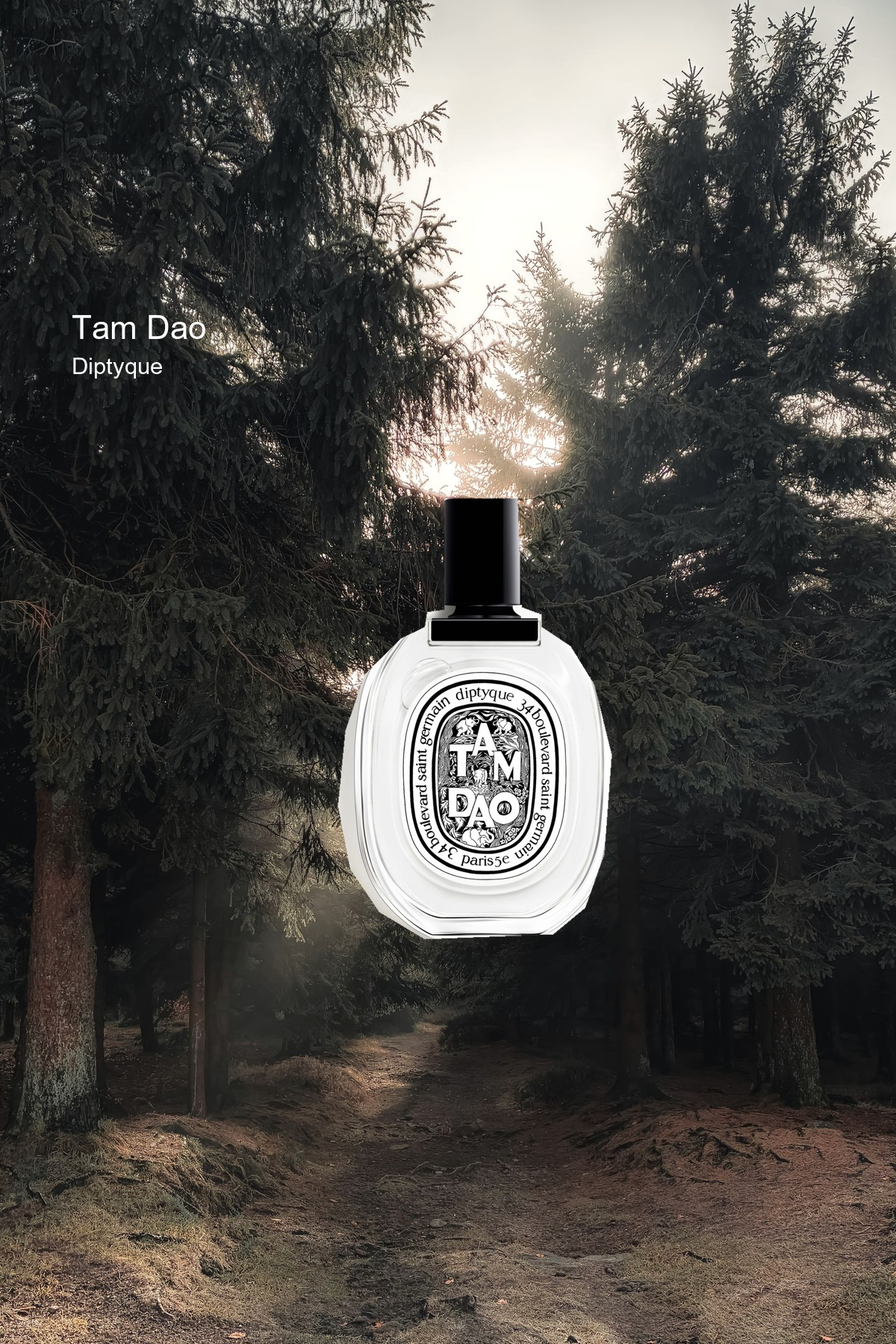
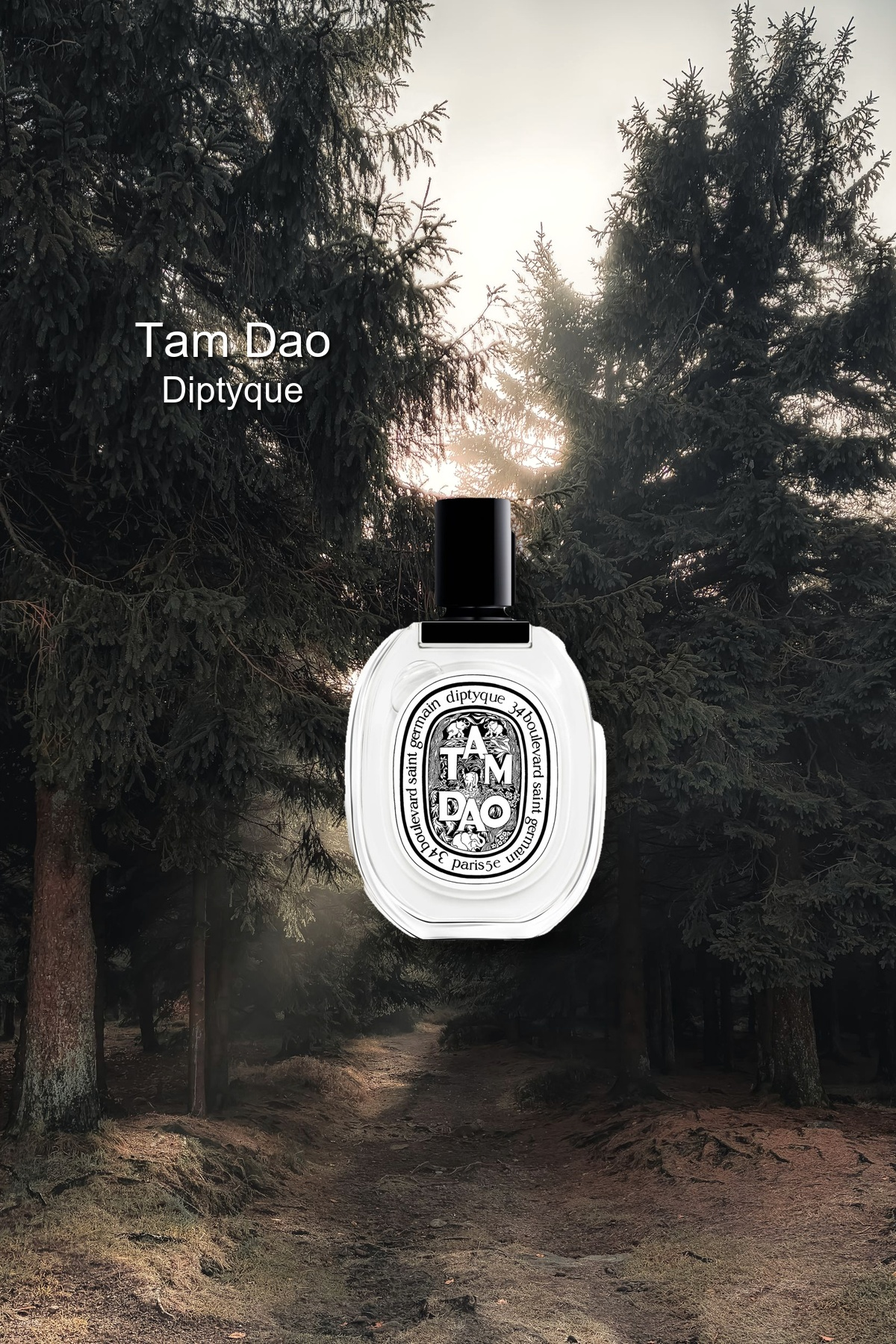
Refine fragrance cutouts typography and drop shadows

Changed region(s): [[0.37, 0.3733, 0.7092, 0.7156], [0.0925, 0.2178, 0.37, 0.3111]]

diff --git a/collection.html b/collection.html
@@ -12,7 +12,7 @@
     <link rel="stylesheet" href="css/footer.css">
     <link rel="stylesheet" href="css/collection.css">
     <title>collection</title>
-  <link rel="stylesheet" href="css/new-perfumes.css?v=20261103-composite">
+  <link rel="stylesheet" href="css/new-perfumes.css?v=20261103-refined">
 </head>
 <body>
     <header>
@@ -74,7 +74,7 @@
                         </a>
                     </div>
                 </div>
-            <div><div class="all new-product"><a href="sp_pear.html"><img src="img/sp_pear.jpg?v=20261103-composite" alt="Jo Malone London English Pear &amp; Freesia" loading="lazy"></a></div><div><a href="sp_pear.html"><h3>English Pear &amp; Freesia</h3><h5>Jo Malone London</h5></a></div></div><div><div class="all new-product"><a href="sp_doson.html"><img src="img/sp_doson.jpg?v=20261103-composite" alt="Diptyque Do Son" loading="lazy"></a></div><div><a href="sp_doson.html"><h3>Do Son</h3><h5>Diptyque</h5></a></div></div></div>   
+            <div><div class="all new-product"><a href="sp_pear.html"><img src="img/sp_pear.jpg?v=20261103-refined" alt="Jo Malone London English Pear &amp; Freesia" loading="lazy"></a></div><div><a href="sp_pear.html"><h3>English Pear &amp; Freesia</h3><h5>Jo Malone London</h5></a></div></div><div><div class="all new-product"><a href="sp_doson.html"><img src="img/sp_doson.jpg?v=20261103-refined" alt="Diptyque Do Son" loading="lazy"></a></div><div><a href="sp_doson.html"><h3>Do Son</h3><h5>Diptyque</h5></a></div></div></div>   
         <h2 class="english right"><a href="summer.html">SUMMER</a></h2>
         <div class="season">
                 <div>
@@ -121,7 +121,7 @@
                         </a>
                     </div>
                 </div>
-            <div><div class="all new-product"><a href="mm_nil.html"><img src="img/mm_nil.jpg?v=20261103-composite" alt="Hermès Un Jardin sur le Nil" loading="lazy"></a></div><div><a href="mm_nil.html"><h3>Un Jardin sur le Nil</h3><h5>Hermès</h5></a></div></div><div><div class="all new-product"><a href="mm_sport.html"><img src="img/mm_sport.jpg?v=20261103-composite" alt="Chanel Allure Homme Sport" loading="lazy"></a></div><div><a href="mm_sport.html"><h3>Allure Homme Sport</h3><h5>Chanel</h5></a></div></div></div>   
+            <div><div class="all new-product"><a href="mm_nil.html"><img src="img/mm_nil.jpg?v=20261103-refined" alt="Hermès Un Jardin sur le Nil" loading="lazy"></a></div><div><a href="mm_nil.html"><h3>Un Jardin sur le Nil</h3><h5>Hermès</h5></a></div></div><div><div class="all new-product"><a href="mm_sport.html"><img src="img/mm_sport.jpg?v=20261103-refined" alt="Chanel Allure Homme Sport" loading="lazy"></a></div><div><a href="mm_sport.html"><h3>Allure Homme Sport</h3><h5>Chanel</h5></a></div></div></div>   
         <h2 class="english"><a href="autumn.html">AUTUMN</a></h2>
             <div class="season">
                 <div>
@@ -168,7 +168,7 @@
                         </a>
                     </div>
                 </div>
-            <div><div class="all new-product"><a href="au_tamdao.html"><img src="img/au_tamdao.jpg?v=20261103-composite" alt="Diptyque Tam Dao" loading="lazy"></a></div><div><a href="au_tamdao.html"><h3>Tam Dao</h3><h5>Diptyque</h5></a></div></div><div><div class="all new-product"><a href="au_santal.html"><img src="img/au_santal.jpg?v=20261103-composite" alt="Le Labo Santal 33" loading="lazy"></a></div><div><a href="au_santal.html"><h3>Santal 33</h3><h5>Le Labo</h5></a></div></div></div>   
+            <div><div class="all new-product"><a href="au_tamdao.html"><img src="img/au_tamdao.jpg?v=20261103-refined" alt="Diptyque Tam Dao" loading="lazy"></a></div><div><a href="au_tamdao.html"><h3>Tam Dao</h3><h5>Diptyque</h5></a></div></div><div><div class="all new-product"><a href="au_santal.html"><img src="img/au_santal.jpg?v=20261103-refined" alt="Le Labo Santal 33" loading="lazy"></a></div><div><a href="au_santal.html"><h3>Santal 33</h3><h5>Le Labo</h5></a></div></div></div>   
         <h2 class="english right"><a href="winter.html">WINTER</a></h2>
             <div class="season">
                 <div>
@@ -215,7 +215,7 @@
                         </a>
                     </div>
                 </div>
-            <div><div class="all new-product"><a href="wi_angels.html"><img src="img/wi_angels.jpg?v=20261103-composite" alt="Kilian Paris Angels’ Share" loading="lazy"></a></div><div><a href="wi_angels.html"><h3>Angels’ Share</h3><h5>Kilian Paris</h5></a></div></div><div><div class="all new-product"><a href="wi_tobacco.html"><img src="img/wi_tobacco.jpg?v=20261103-composite" alt="Tom Ford Tobacco Vanille" loading="lazy"></a></div><div><a href="wi_tobacco.html"><h3>Tobacco Vanille</h3><h5>Tom Ford</h5></a></div></div><div><div class="all new-product"><a href="wi_grandsoir.html"><img src="img/wi_grandsoir.jpg?v=20261103-composite" alt="Maison Francis Kurkdjian Grand Soir" loading="lazy"></a></div><div><a href="wi_grandsoir.html"><h3>Grand Soir</h3><h5>Maison Francis Kurkdjian</h5></a></div></div></div>
+            <div><div class="all new-product"><a href="wi_angels.html"><img src="img/wi_angels.jpg?v=20261103-refined" alt="Kilian Paris Angels’ Share" loading="lazy"></a></div><div><a href="wi_angels.html"><h3>Angels’ Share</h3><h5>Kilian Paris</h5></a></div></div><div><div class="all new-product"><a href="wi_tobacco.html"><img src="img/wi_tobacco.jpg?v=20261103-refined" alt="Tom Ford Tobacco Vanille" loading="lazy"></a></div><div><a href="wi_tobacco.html"><h3>Tobacco Vanille</h3><h5>Tom Ford</h5></a></div></div><div><div class="all new-product"><a href="wi_grandsoir.html"><img src="img/wi_grandsoir.jpg?v=20261103-refined" alt="Maison Francis Kurkdjian Grand Soir" loading="lazy"></a></div><div><a href="wi_grandsoir.html"><h3>Grand Soir</h3><h5>Maison Francis Kurkdjian</h5></a></div></div></div>
     </div>    
     <footer>
     <div id="foot">

diff --git a/wi_grandsoir.html b/wi_grandsoir.html
@@ -32,8 +32,8 @@
       </nav>
     </header>
     <main class="perfume-layout new-perfume">
- <aside class="related-scents" aria-labelledby="related-title"><p class="related-eyebrow english">EXPLORE MORE</p><h2 id="related-title" class="kor">같은 계절의 향도 만나보세요</h2><div class="related-list"><a class="related-perfume" href="wi_angels.html"><img src="img/wi_angels.jpg?v=20261103-composite" alt="Angels’ Share" loading="lazy"><span class="related-brand english">Kilian Paris</span><span class="related-name english">Angels’ Share</span></a><a class="related-perfume" href="wi_tobacco.html"><img src="img/wi_tobacco.jpg?v=20261103-composite" alt="Tobacco Vanille" loading="lazy"><span class="related-brand english">Tom Ford</span><span class="related-name english">Tobacco Vanille</span></a></div><a class="related-back kor" href="winter.html">겨울 컬렉션으로 돌아가기 ↗</a></aside>
- <div id="all"><div class="set"><div id="pic"><img src="img/wi_grandsoir.jpg?v=20261103-composite" alt="Maison Francis Kurkdjian Grand Soir 향수"></div><div id="text"><h3 class="english">Grand Soir — Maison Francis Kurkdjian</h3><p class="kor">스페니시 라브다넘과 오렌지의 깊고 부드러운 향으로 시작해 라벤더와 시암 벤조인이 어우러지며 따뜻한 분위기를 만들어냅니다. 시간이 지나면서 앰버와 바닐라, 통카빈의 풍성한 단맛에 머스크와 시더가 더해져 차분하고 부드러운 잔향으로 이어집니다.<br><br>앰버의 깊은 온기와 바닐라의 부드러운 달콤함이 중심을 이루는 향수입니다. 밝고 가벼운 느낌보다는 따뜻하고 풍성한 여운을 남기는 것이 특징으로, 차가운 겨울 공기와 대비되는 아늑하고 차분한 저녁의 분위기와 잘 어울립니다.</p>
+ <aside class="related-scents" aria-labelledby="related-title"><p class="related-eyebrow english">EXPLORE MORE</p><h2 id="related-title" class="kor">같은 계절의 향도 만나보세요</h2><div class="related-list"><a class="related-perfume" href="wi_angels.html"><img src="img/wi_angels.jpg?v=20261103-refined" alt="Angels’ Share" loading="lazy"><span class="related-brand english">Kilian Paris</span><span class="related-name english">Angels’ Share</span></a><a class="related-perfume" href="wi_tobacco.html"><img src="img/wi_tobacco.jpg?v=20261103-refined" alt="Tobacco Vanille" loading="lazy"><span class="related-brand english">Tom Ford</span><span class="related-name english">Tobacco Vanille</span></a></div><a class="related-back kor" href="winter.html">겨울 컬렉션으로 돌아가기 ↗</a></aside>
+ <div id="all"><div class="set"><div id="pic"><img src="img/wi_grandsoir.jpg?v=20261103-refined" alt="Maison Francis Kurkdjian Grand Soir 향수"></div><div id="text"><h3 class="english">Grand Soir — Maison Francis Kurkdjian</h3><p class="kor">스페니시 라브다넘과 오렌지의 깊고 부드러운 향으로 시작해 라벤더와 시암 벤조인이 어우러지며 따뜻한 분위기를 만들어냅니다. 시간이 지나면서 앰버와 바닐라, 통카빈의 풍성한 단맛에 머스크와 시더가 더해져 차분하고 부드러운 잔향으로 이어집니다.<br><br>앰버의 깊은 온기와 바닐라의 부드러운 달콤함이 중심을 이루는 향수입니다. 밝고 가벼운 느낌보다는 따뜻하고 풍성한 여운을 남기는 것이 특징으로, 차가운 겨울 공기와 대비되는 아늑하고 차분한 저녁의 분위기와 잘 어울립니다.</p>
  <div class="lion"><div class="dear"><p class="hand kor">출시년도</p><p class="foot english">2016</p></div><div class="dear"><p class="hand kor">농도</p><p class="foot english">Eau de Parfum</p></div><div class="dear"><p class="hand kor">지속시간</p><p class="foot kor">약 8~10시간</p></div></div>
  <div class="bignote"><h3 class="english">SCENT NOTES</h3><div class="note-columns"><details class="note-group"><summary class="tag english">TOP</summary><div class="note-panel"><p class="eng english">Spanish Labdanum</p><p class="ko kor">스페니시 라브다넘</p><p class="eng english">Orange</p><p class="ko kor">오렌지</p></div></details><details class="note-group"><summary class="tag english">HEART</summary><div class="note-panel"><p class="eng english">Lavender</p><p class="ko kor">라벤더</p><p class="eng english">Siam Benzoin</p><p class="ko kor">시암 벤조인</p></div></details><details class="note-group"><summary class="tag english">BASE</summary><div class="note-panel"><p class="eng english">Amber</p><p class="ko kor">앰버</p><p class="eng english">Vanilla</p><p class="ko kor">바닐라</p><p class="eng english">Tonka Bean</p><p class="ko kor">통카빈</p><p class="eng english">Musk</p><p class="ko kor">머스크</p><p class="eng english">Cedar</p><p class="ko kor">시더</p></div></details></div></div>
  </div></div></div></main>    <footer>

diff --git a/wi_angels.html b/wi_angels.html
@@ -32,8 +32,8 @@
       </nav>
     </header>
     <main class="perfume-layout new-perfume">
- <aside class="related-scents" aria-labelledby="related-title"><p class="related-eyebrow english">EXPLORE MORE</p><h2 id="related-title" class="kor">같은 계절의 향도 만나보세요</h2><div class="related-list"><a class="related-perfume" href="wi_tobacco.html"><img src="img/wi_tobacco.jpg?v=20261103-composite" alt="Tobacco Vanille" loading="lazy"><span class="related-brand english">Tom Ford</span><span class="related-name english">Tobacco Vanille</span></a><a class="related-perfume" href="wi_grandsoir.html"><img src="img/wi_grandsoir.jpg?v=20261103-composite" alt="Grand Soir" loading="lazy"><span class="related-brand english">Maison Francis Kurkdjian</span><span class="related-name english">Grand Soir</span></a></div><a class="related-back kor" href="winter.html">겨울 컬렉션으로 돌아가기 ↗</a></aside>
- <div id="all"><div class="set"><div id="pic"><img src="img/wi_angels.jpg?v=20261103-composite" alt="Kilian Paris Angels’ Share 향수"></div><div id="text"><h3 class="english">Angels’ Share — Kilian Paris</h3><p class="kor">코냑의 깊고 따뜻한 향으로 시작해 시나몬과 통카빈, 오크가 어우러지며 달콤하고 스파이시한 분위기를 만들어냅니다. 헤디온의 부드러운 꽃 향이 더해지고, 시간이 지나면서 바닐라와 프랄린, 샌달우드와 캔디드 아몬드가 포근하고 달콤한 잔향으로 이어집니다.<br><br>술과 향신료의 깊은 느낌에 디저트를 떠올리는 부드러운 단맛이 겹쳐지는 것이 특징인 향수입니다. 차가운 공기 속에서 따뜻한 실내로 들어온 듯 풍성하고 포근한 분위기를 전하며, 겨울 저녁의 깊고 아늑한 분위기와 잘 어울립니다.</p>
+ <aside class="related-scents" aria-labelledby="related-title"><p class="related-eyebrow english">EXPLORE MORE</p><h2 id="related-title" class="kor">같은 계절의 향도 만나보세요</h2><div class="related-list"><a class="related-perfume" href="wi_tobacco.html"><img src="img/wi_tobacco.jpg?v=20261103-refined" alt="Tobacco Vanille" loading="lazy"><span class="related-brand english">Tom Ford</span><span class="related-name english">Tobacco Vanille</span></a><a class="related-perfume" href="wi_grandsoir.html"><img src="img/wi_grandsoir.jpg?v=20261103-refined" alt="Grand Soir" loading="lazy"><span class="related-brand english">Maison Francis Kurkdjian</span><span class="related-name english">Grand Soir</span></a></div><a class="related-back kor" href="winter.html">겨울 컬렉션으로 돌아가기 ↗</a></aside>
+ <div id="all"><div class="set"><div id="pic"><img src="img/wi_angels.jpg?v=20261103-refined" alt="Kilian Paris Angels’ Share 향수"></div><div id="text"><h3 class="english">Angels’ Share — Kilian Paris</h3><p class="kor">코냑의 깊고 따뜻한 향으로 시작해 시나몬과 통카빈, 오크가 어우러지며 달콤하고 스파이시한 분위기를 만들어냅니다. 헤디온의 부드러운 꽃 향이 더해지고, 시간이 지나면서 바닐라와 프랄린, 샌달우드와 캔디드 아몬드가 포근하고 달콤한 잔향으로 이어집니다.<br><br>술과 향신료의 깊은 느낌에 디저트를 떠올리는 부드러운 단맛이 겹쳐지는 것이 특징인 향수입니다. 차가운 공기 속에서 따뜻한 실내로 들어온 듯 풍성하고 포근한 분위기를 전하며, 겨울 저녁의 깊고 아늑한 분위기와 잘 어울립니다.</p>
  <div class="lion"><div class="dear"><p class="hand kor">출시년도</p><p class="foot english">2020</p></div><div class="dear"><p class="hand kor">농도</p><p class="foot english">Eau de Parfum</p></div><div class="dear"><p class="hand kor">지속시간</p><p class="foot kor">약 8~10시간</p></div></div>
  <div class="bignote"><h3 class="english">SCENT NOTES</h3><div class="note-columns"><details class="note-group"><summary class="tag english">TOP</summary><div class="note-panel"><p class="eng english">Cognac</p><p class="ko kor">코냑</p></div></details><details class="note-group"><summary class="tag english">HEART</summary><div class="note-panel"><p class="eng english">Cinnamon</p><p class="ko kor">시나몬</p><p class="eng english">Tonka Bean</p><p class="ko kor">통카빈</p><p class="eng english">Oak</p><p class="ko kor">오크</p><p class="eng english">Hedione</p><p class="ko kor">헤디온</p></div></details><details class="note-group"><summary class="tag english">BASE</summary><div class="note-panel"><p class="eng english">Vanilla</p><p class="ko kor">바닐라</p><p class="eng english">Praline</p><p class="ko kor">프랄린</p><p class="eng english">Sandalwood</p><p class="ko kor">샌달우드</p><p class="eng english">Candied Almond</p><p class="ko kor">캔디드 아몬드</p></div></details></div></div>
  </div></div></div></main>    <footer>

diff --git a/wi_tobacco.html b/wi_tobacco.html
@@ -32,8 +32,8 @@
       </nav>
     </header>
     <main class="perfume-layout new-perfume">
- <aside class="related-scents" aria-labelledby="related-title"><p class="related-eyebrow english">EXPLORE MORE</p><h2 id="related-title" class="kor">같은 계절의 향도 만나보세요</h2><div class="related-list"><a class="related-perfume" href="wi_angels.html"><img src="img/wi_angels.jpg?v=20261103-composite" alt="Angels’ Share" loading="lazy"><span class="related-brand english">Kilian Paris</span><span class="related-name english">Angels’ Share</span></a><a class="related-perfume" href="wi_grandsoir.html"><img src="img/wi_grandsoir.jpg?v=20261103-composite" alt="Grand Soir" loading="lazy"><span class="related-brand english">Maison Francis Kurkdjian</span><span class="related-name english">Grand Soir</span></a></div><a class="related-back kor" href="winter.html">겨울 컬렉션으로 돌아가기 ↗</a></aside>
- <div id="all"><div class="set"><div id="pic"><img src="img/wi_tobacco.jpg?v=20261103-composite" alt="Tom Ford Tobacco Vanille 향수"></div><div id="text"><h3 class="english">Tobacco Vanille — Tom Ford</h3><p class="kor">타바코 리프의 깊은 향에 스파이시한 노트가 더해져 따뜻하고 짙은 느낌으로 시작합니다. 이어 바닐라와 카카오, 통카빈과 타바코 블로섬이 어우러지며 부드러운 단맛을 만들고, 시간이 지나면서 말린 과일과 우디 노트가 깊이 있는 잔향을 남깁니다.<br><br>타바코의 건조한 느낌과 바닐라의 달콤함이 함께 어우러져 묵직하고 풍성한 분위기를 전하는 향수입니다. 말린 과일과 향신료가 더하는 따뜻한 느낌이 특징으로, 추운 겨울날의 포근하고 여유로운 분위기와 잘 어울립니다.</p>
+ <aside class="related-scents" aria-labelledby="related-title"><p class="related-eyebrow english">EXPLORE MORE</p><h2 id="related-title" class="kor">같은 계절의 향도 만나보세요</h2><div class="related-list"><a class="related-perfume" href="wi_angels.html"><img src="img/wi_angels.jpg?v=20261103-refined" alt="Angels’ Share" loading="lazy"><span class="related-brand english">Kilian Paris</span><span class="related-name english">Angels’ Share</span></a><a class="related-perfume" href="wi_grandsoir.html"><img src="img/wi_grandsoir.jpg?v=20261103-refined" alt="Grand Soir" loading="lazy"><span class="related-brand english">Maison Francis Kurkdjian</span><span class="related-name english">Grand Soir</span></a></div><a class="related-back kor" href="winter.html">겨울 컬렉션으로 돌아가기 ↗</a></aside>
+ <div id="all"><div class="set"><div id="pic"><img src="img/wi_tobacco.jpg?v=20261103-refined" alt="Tom Ford Tobacco Vanille 향수"></div><div id="text"><h3 class="english">Tobacco Vanille — Tom Ford</h3><p class="kor">타바코 리프의 깊은 향에 스파이시한 노트가 더해져 따뜻하고 짙은 느낌으로 시작합니다. 이어 바닐라와 카카오, 통카빈과 타바코 블로섬이 어우러지며 부드러운 단맛을 만들고, 시간이 지나면서 말린 과일과 우디 노트가 깊이 있는 잔향을 남깁니다.<br><br>타바코의 건조한 느낌과 바닐라의 달콤함이 함께 어우러져 묵직하고 풍성한 분위기를 전하는 향수입니다. 말린 과일과 향신료가 더하는 따뜻한 느낌이 특징으로, 추운 겨울날의 포근하고 여유로운 분위기와 잘 어울립니다.</p>
  <div class="lion"><div class="dear"><p class="hand kor">출시년도</p><p class="foot english">2007</p></div><div class="dear"><p class="hand kor">농도</p><p class="foot english">Eau de Parfum</p></div><div class="dear"><p class="hand kor">지속시간</p><p class="foot kor">약 8~12시간</p></div></div>
  <div class="bignote"><h3 class="english">SCENT NOTES</h3><div class="note-columns"><details class="note-group"><summary class="tag english">TOP</summary><div class="note-panel"><p class="eng english">Tobacco Leaf</p><p class="ko kor">타바코 리프</p><p class="eng english">Spicy Notes</p><p class="ko kor">스파이시 노트</p></div></details><details class="note-group"><summary class="tag english">HEART</summary><div class="note-panel"><p class="eng english">Vanilla</p><p class="ko kor">바닐라</p><p class="eng english">Cacao</p><p class="ko kor">카카오</p><p class="eng english">Tonka Bean</p><p class="ko kor">통카빈</p><p class="eng english">Tobacco Blossom</p><p class="ko kor">타바코 블로섬</p></div></details><details class="note-group"><summary class="tag english">BASE</summary><div class="note-panel"><p class="eng english">Dried Fruits</p><p class="ko kor">말린 과일</p><p class="eng english">Woody Notes</p><p class="ko kor">우디 노트</p></div></details></div></div>
  </div></div></div></main>    <footer>

diff --git a/mm_sport.html b/mm_sport.html
@@ -32,8 +32,8 @@
       </nav>
     </header>
     <main class="perfume-layout new-perfume">
- <aside class="related-scents" aria-labelledby="related-title"><p class="related-eyebrow english">EXPLORE MORE</p><h2 id="related-title" class="kor">같은 계절의 향도 만나보세요</h2><div class="related-list"><a class="related-perfume" href="mm_nil.html"><img src="img/mm_nil.jpg?v=20261103-composite" alt="Un Jardin sur le Nil" loading="lazy"><span class="related-brand english">Hermès</span><span class="related-name english">Un Jardin sur le Nil</span></a></div><a class="related-back kor" href="summer.html">여름 컬렉션으로 돌아가기 ↗</a></aside>
- <div id="all"><div class="set"><div id="pic"><img src="img/mm_sport.jpg?v=20261103-composite" alt="Chanel Allure Homme Sport 향수"></div><div id="text"><h3 class="english">Allure Homme Sport — Chanel</h3><p class="kor">오렌지와 블러드 만다린의 산뜻한 시트러스 향에 마린 노트와 알데하이드의 깨끗한 느낌이 더해져 밝고 상쾌하게 시작합니다. 이어 페퍼와 네롤리, 시더의 은은한 스파이시 우디 향이 어우러지고, 바닐라와 통카빈, 화이트 머스크가 부드러운 잔향을 남깁니다.<br><br>시트러스의 활기와 부드러운 우디 향을 함께 담아 깔끔하면서도 편안한 분위기를 전하는 향수입니다. 처음의 시원한 느낌 뒤로 은은한 단맛이 이어져 산뜻함과 따뜻함의 균형을 보여주며, 활동적인 여름날의 가볍고 밝은 분위기와 잘 어울립니다.</p>
+ <aside class="related-scents" aria-labelledby="related-title"><p class="related-eyebrow english">EXPLORE MORE</p><h2 id="related-title" class="kor">같은 계절의 향도 만나보세요</h2><div class="related-list"><a class="related-perfume" href="mm_nil.html"><img src="img/mm_nil.jpg?v=20261103-refined" alt="Un Jardin sur le Nil" loading="lazy"><span class="related-brand english">Hermès</span><span class="related-name english">Un Jardin sur le Nil</span></a></div><a class="related-back kor" href="summer.html">여름 컬렉션으로 돌아가기 ↗</a></aside>
+ <div id="all"><div class="set"><div id="pic"><img src="img/mm_sport.jpg?v=20261103-refined" alt="Chanel Allure Homme Sport 향수"></div><div id="text"><h3 class="english">Allure Homme Sport — Chanel</h3><p class="kor">오렌지와 블러드 만다린의 산뜻한 시트러스 향에 마린 노트와 알데하이드의 깨끗한 느낌이 더해져 밝고 상쾌하게 시작합니다. 이어 페퍼와 네롤리, 시더의 은은한 스파이시 우디 향이 어우러지고, 바닐라와 통카빈, 화이트 머스크가 부드러운 잔향을 남깁니다.<br><br>시트러스의 활기와 부드러운 우디 향을 함께 담아 깔끔하면서도 편안한 분위기를 전하는 향수입니다. 처음의 시원한 느낌 뒤로 은은한 단맛이 이어져 산뜻함과 따뜻함의 균형을 보여주며, 활동적인 여름날의 가볍고 밝은 분위기와 잘 어울립니다.</p>
  <div class="lion"><div class="dear"><p class="hand kor">출시년도</p><p class="foot english">2004</p></div><div class="dear"><p class="hand kor">농도</p><p class="foot english">Eau de Toilette</p></div><div class="dear"><p class="hand kor">지속시간</p><p class="foot kor">약 3~6시간</p></div></div>
  <div class="bignote"><h3 class="english">SCENT NOTES</h3><div class="note-columns"><details class="note-group"><summary class="tag english">TOP</summary><div class="note-panel"><p class="eng english">Orange</p><p class="ko kor">오렌지</p><p class="eng english">Sea Notes</p><p class="ko kor">마린 노트</p><p class="eng english">Aldehydes</p><p class="ko kor">알데하이드</p><p class="eng english">Blood Mandarin</p><p class="ko kor">블러드 만다린</p></div></details><details class="note-group"><summary class="tag english">HEART</summary><div class="note-panel"><p class="eng english">Pepper</p><p class="ko kor">페퍼</p><p class="eng english">Neroli</p><p class="ko kor">네롤리</p><p class="eng english">Cedar</p><p class="ko kor">시더</p></div></details><details class="note-group"><summary class="tag english">BASE</summary><div class="note-panel"><p class="eng english">Vanilla</p><p class="ko kor">바닐라</p><p class="eng english">Tonka Bean</p><p class="ko kor">통카빈</p><p class="eng english">White Musk</p><p class="ko kor">화이트 머스크</p><p class="eng english">Amber</p><p class="ko kor">앰버</p><p class="eng english">Vetiver</p><p class="ko kor">베티버</p><p class="eng english">Elemi Resin</p><p class="ko kor">엘레미 수지</p></div></details></div></div>
  </div></div></div></main>    <footer>

diff --git a/mm_nil.html b/mm_nil.html
@@ -32,8 +32,8 @@
       </nav>
     </header>
     <main class="perfume-layout new-perfume">
- <aside class="related-scents" aria-labelledby="related-title"><p class="related-eyebrow english">EXPLORE MORE</p><h2 id="related-title" class="kor">같은 계절의 향도 만나보세요</h2><div class="related-list"><a class="related-perfume" href="mm_sport.html"><img src="img/mm_sport.jpg?v=20261103-composite" alt="Allure Homme Sport" loading="lazy"><span class="related-brand english">Chanel</span><span class="related-name english">Allure Homme Sport</span></a></div><a class="related-back kor" href="summer.html">여름 컬렉션으로 돌아가기 ↗</a></aside>
- <div id="all"><div class="set"><div id="pic"><img src="img/mm_nil.jpg?v=20261103-composite" alt="Hermès Un Jardin sur le Nil 향수"></div><div id="text"><h3 class="english">Un Jardin sur le Nil — Hermès</h3><p class="kor">자몽과 그린 망고의 산뜻하고 쌉싸름한 향으로 시작해 토마토와 당근의 풋풋한 그린 향이 어우러집니다. 연꽃과 히아신스, 피오니의 부드러운 꽃 향이 이어지고, 시간이 지나면서 머스크와 아이리스, 인센스가 더해져 차분한 잔향을 남깁니다.<br><br>잘 익은 과일의 진한 단맛보다는 덜 익은 과일과 식물의 싱그러움을 중심으로 맑고 시원한 분위기를 전하는 향수입니다. 물가의 정원처럼 촉촉하고 푸른 느낌이 특징으로, 햇빛이 강해지는 여름에도 산뜻한 분위기를 표현하기 좋습니다.</p>
+ <aside class="related-scents" aria-labelledby="related-title"><p class="related-eyebrow english">EXPLORE MORE</p><h2 id="related-title" class="kor">같은 계절의 향도 만나보세요</h2><div class="related-list"><a class="related-perfume" href="mm_sport.html"><img src="img/mm_sport.jpg?v=20261103-refined" alt="Allure Homme Sport" loading="lazy"><span class="related-brand english">Chanel</span><span class="related-name english">Allure Homme Sport</span></a></div><a class="related-back kor" href="summer.html">여름 컬렉션으로 돌아가기 ↗</a></aside>
+ <div id="all"><div class="set"><div id="pic"><img src="img/mm_nil.jpg?v=20261103-refined" alt="Hermès Un Jardin sur le Nil 향수"></div><div id="text"><h3 class="english">Un Jardin sur le Nil — Hermès</h3><p class="kor">자몽과 그린 망고의 산뜻하고 쌉싸름한 향으로 시작해 토마토와 당근의 풋풋한 그린 향이 어우러집니다. 연꽃과 히아신스, 피오니의 부드러운 꽃 향이 이어지고, 시간이 지나면서 머스크와 아이리스, 인센스가 더해져 차분한 잔향을 남깁니다.<br><br>잘 익은 과일의 진한 단맛보다는 덜 익은 과일과 식물의 싱그러움을 중심으로 맑고 시원한 분위기를 전하는 향수입니다. 물가의 정원처럼 촉촉하고 푸른 느낌이 특징으로, 햇빛이 강해지는 여름에도 산뜻한 분위기를 표현하기 좋습니다.</p>
  <div class="lion"><div class="dear"><p class="hand kor">출시년도</p><p class="foot english">2005</p></div><div class="dear"><p class="hand kor">농도</p><p class="foot english">Eau de Toilette</p></div><div class="dear"><p class="hand kor">지속시간</p><p class="foot kor">약 4~6시간</p></div></div>
  <div class="bignote"><h3 class="english">SCENT NOTES</h3><div class="note-columns"><details class="note-group"><summary class="tag english">TOP</summary><div class="note-panel"><p class="eng english">Grapefruit</p><p class="ko kor">자몽</p><p class="eng english">Green Mango</p><p class="ko kor">그린 망고</p><p class="eng english">Tomato</p><p class="ko kor">토마토</p><p class="eng english">Carrot</p><p class="ko kor">당근</p></div></details><details class="note-group"><summary class="tag english">HEART</summary><div class="note-panel"><p class="eng english">Lotus</p><p class="ko kor">연꽃</p><p class="eng english">Bulrush</p><p class="ko kor">부들</p><p class="eng english">Orange</p><p class="ko kor">오렌지</p><p class="eng english">Hyacinth</p><p class="ko kor">히아신스</p><p class="eng english">Peony</p><p class="ko kor">피오니</p></div></details><details class="note-group"><summary class="tag english">BASE</summary><div class="note-panel"><p class="eng english">Musk</p><p class="ko kor">머스크</p><p class="eng english">Iris</p><p class="ko kor">아이리스</p><p class="eng english">Incense</p><p class="ko kor">인센스</p><p class="eng english">Labdanum</p><p class="ko kor">라브다넘</p><p class="eng english">Cinnamon</p><p class="ko kor">시나몬</p></div></details></div></div>
  </div></div></div></main>    <footer>

diff --git a/au_tamdao.html b/au_tamdao.html
@@ -32,8 +32,8 @@
       </nav>
     </header>
     <main class="perfume-layout new-perfume">
- <aside class="related-scents" aria-labelledby="related-title"><p class="related-eyebrow english">EXPLORE MORE</p><h2 id="related-title" class="kor">같은 계절의 향도 만나보세요</h2><div class="related-list"><a class="related-perfume" href="au_santal.html"><img src="img/au_santal.jpg?v=20261103-composite" alt="Santal 33" loading="lazy"><span class="related-brand english">Le Labo</span><span class="related-name english">Santal 33</span></a></div><a class="related-back kor" href="autumn.html">가을 컬렉션으로 돌아가기 ↗</a></aside>
- <div id="all"><div class="set"><div id="pic"><img src="img/au_tamdao.jpg?v=20261103-composite" alt="Diptyque Tam Dao 향수"></div><div id="text"><h3 class="english">Tam Dao — Diptyque</h3><p class="kor">사이프러스와 머틀의 맑고 푸른 향으로 시작해 장미의 은은한 꽃 향이 부드럽게 어우러집니다. 이어 샌달우드와 시더의 차분한 나무 향이 중심을 이루고, 로즈우드와 스파이스, 앰버와 화이트 머스크가 더해져 따뜻하고 부드러운 잔향을 남깁니다.<br><br>짙은 단맛보다는 나무의 결을 떠올리게 하는 담백하고 차분한 분위기가 특징인 향수입니다. 푸른 숲의 느낌과 따뜻한 우디 향이 함께 어우러져 고요한 인상을 남기며, 선선한 바람이 불기 시작하는 가을의 편안하고 깊이 있는 분위기와 잘 어울립니다.</p>
+ <aside class="related-scents" aria-labelledby="related-title"><p class="related-eyebrow english">EXPLORE MORE</p><h2 id="related-title" class="kor">같은 계절의 향도 만나보세요</h2><div class="related-list"><a class="related-perfume" href="au_santal.html"><img src="img/au_santal.jpg?v=20261103-refined" alt="Santal 33" loading="lazy"><span class="related-brand english">Le Labo</span><span class="related-name english">Santal 33</span></a></div><a class="related-back kor" href="autumn.html">가을 컬렉션으로 돌아가기 ↗</a></aside>
+ <div id="all"><div class="set"><div id="pic"><img src="img/au_tamdao.jpg?v=20261103-refined" alt="Diptyque Tam Dao 향수"></div><div id="text"><h3 class="english">Tam Dao — Diptyque</h3><p class="kor">사이프러스와 머틀의 맑고 푸른 향으로 시작해 장미의 은은한 꽃 향이 부드럽게 어우러집니다. 이어 샌달우드와 시더의 차분한 나무 향이 중심을 이루고, 로즈우드와 스파이스, 앰버와 화이트 머스크가 더해져 따뜻하고 부드러운 잔향을 남깁니다.<br><br>짙은 단맛보다는 나무의 결을 떠올리게 하는 담백하고 차분한 분위기가 특징인 향수입니다. 푸른 숲의 느낌과 따뜻한 우디 향이 함께 어우러져 고요한 인상을 남기며, 선선한 바람이 불기 시작하는 가을의 편안하고 깊이 있는 분위기와 잘 어울립니다.</p>
  <div class="lion"><div class="dear"><p class="hand kor">출시년도</p><p class="foot english">2003</p></div><div class="dear"><p class="hand kor">농도</p><p class="foot english">Eau de Toilette</p></div><div class="dear"><p class="hand kor">지속시간</p><p class="foot kor">약 3~6시간</p></div></div>
  <div class="bignote"><h3 class="english">SCENT NOTES</h3><div class="note-columns"><details class="note-group"><summary class="tag english">TOP</summary><div class="note-panel"><p class="eng english">Italian Cypress</p><p class="ko kor">이탈리안 사이프러스</p><p class="eng english">Myrtle</p><p class="ko kor">머틀</p><p class="eng english">Rose</p><p class="ko kor">장미</p></div></details><details class="note-group"><summary class="tag english">HEART</summary><div class="note-panel"><p class="eng english">Sandalwood</p><p class="ko kor">샌달우드</p><p class="eng english">Cedar</p><p class="ko kor">시더</p></div></details><details class="note-group"><summary class="tag english">BASE</summary><div class="note-panel"><p class="eng english">Brazilian Rosewood</p><p class="ko kor">브라질리안 로즈우드</p><p class="eng english">Spices</p><p class="ko kor">스파이스</p><p class="eng english">Amber</p><p class="ko kor">앰버</p><p class="eng english">White Musk</p><p class="ko kor">화이트 머스크</p></div></details></div></div>
  </div></div></div></main>    <footer>

diff --git a/sp_pear.html b/sp_pear.html
@@ -32,8 +32,8 @@
       </nav>
     </header>
     <main class="perfume-layout new-perfume">
- <aside class="related-scents" aria-labelledby="related-title"><p class="related-eyebrow english">EXPLORE MORE</p><h2 id="related-title" class="kor">같은 계절의 향도 만나보세요</h2><div class="related-list"><a class="related-perfume" href="sp_doson.html"><img src="img/sp_doson.jpg?v=20261103-composite" alt="Do Son" loading="lazy"><span class="related-brand english">Diptyque</span><span class="related-name english">Do Son</span></a></div><a class="related-back kor" href="spring.html">봄 컬렉션으로 돌아가기 ↗</a></aside>
- <div id="all"><div class="set"><div id="pic"><img src="img/sp_pear.jpg?v=20261103-composite" alt="Jo Malone London English Pear &amp; Freesia 향수"></div><div id="text"><h3 class="english">English Pear &amp; Freesia — Jo Malone London</h3><p class="kor">배와 멜론의 산뜻하고 달콤한 과일 향으로 시작해 프리지아와 장미의 은은한 꽃 향이 부드럽게 어우러집니다. 시간이 지나면서 머스크와 파출리, 앰버가 더해져 차분한 잔향으로 이어지고, 루바브의 풋풋한 느낌이 과일과 꽃 향 사이에 생기를 더합니다.<br><br>과일의 밝은 느낌과 꽃의 부드러움을 함께 담아 가볍고 단정한 분위기를 전하는 향수입니다. 화려하게 짙어지는 꽃 향보다는 맑고 싱그러운 인상을 중심으로, 꽃이 피기 시작하는 봄날의 산뜻한 분위기와 잘 어울립니다.</p>
+ <aside class="related-scents" aria-labelledby="related-title"><p class="related-eyebrow english">EXPLORE MORE</p><h2 id="related-title" class="kor">같은 계절의 향도 만나보세요</h2><div class="related-list"><a class="related-perfume" href="sp_doson.html"><img src="img/sp_doson.jpg?v=20261103-refined" alt="Do Son" loading="lazy"><span class="related-brand english">Diptyque</span><span class="related-name english">Do Son</span></a></div><a class="related-back kor" href="spring.html">봄 컬렉션으로 돌아가기 ↗</a></aside>
+ <div id="all"><div class="set"><div id="pic"><img src="img/sp_pear.jpg?v=20261103-refined" alt="Jo Malone London English Pear &amp; Freesia 향수"></div><div id="text"><h3 class="english">English Pear &amp; Freesia — Jo Malone London</h3><p class="kor">배와 멜론의 산뜻하고 달콤한 과일 향으로 시작해 프리지아와 장미의 은은한 꽃 향이 부드럽게 어우러집니다. 시간이 지나면서 머스크와 파출리, 앰버가 더해져 차분한 잔향으로 이어지고, 루바브의 풋풋한 느낌이 과일과 꽃 향 사이에 생기를 더합니다.<br><br>과일의 밝은 느낌과 꽃의 부드러움을 함께 담아 가볍고 단정한 분위기를 전하는 향수입니다. 화려하게 짙어지는 꽃 향보다는 맑고 싱그러운 인상을 중심으로, 꽃이 피기 시작하는 봄날의 산뜻한 분위기와 잘 어울립니다.</p>
  <div class="lion"><div class="dear"><p class="hand kor">출시년도</p><p class="foot english">2010</p></div><div class="dear"><p class="hand kor">농도</p><p class="foot english">Cologne</p></div><div class="dear"><p class="hand kor">지속시간</p><p class="foot kor">약 2~4시간</p></div></div>
  <div class="bignote"><h3 class="english">SCENT NOTES</h3><div class="note-columns"><details class="note-group"><summary class="tag english">TOP</summary><div class="note-panel"><p class="eng english">Pear</p><p class="ko kor">배</p><p class="eng english">Melon</p><p class="ko kor">멜론</p></div></details><details class="note-group"><summary class="tag english">HEART</summary><div class="note-panel"><p class="eng english">Freesia</p><p class="ko kor">프리지아</p><p class="eng english">Rose</p><p class="ko kor">장미</p></div></details><details class="note-group"><summary class="tag english">BASE</summary><div class="note-panel"><p class="eng english">Musk</p><p class="ko kor">머스크</p><p class="eng english">Patchouli</p><p class="ko kor">파출리</p><p class="eng english">Rhubarb</p><p class="ko kor">루바브</p><p class="eng english">Amber</p><p class="ko kor">앰버</p></div></details></div></div>
  </div></div></div></main>    <footer>

diff --git a/sp_doson.html b/sp_doson.html
@@ -32,8 +32,8 @@
       </nav>
     </header>
     <main class="perfume-layout new-perfume">
- <aside class="related-scents" aria-labelledby="related-title"><p class="related-eyebrow english">EXPLORE MORE</p><h2 id="related-title" class="kor">같은 계절의 향도 만나보세요</h2><div class="related-list"><a class="related-perfume" href="sp_pear.html"><img src="img/sp_pear.jpg?v=20261103-composite" alt="English Pear &amp; Freesia" loading="lazy"><span class="related-brand english">Jo Malone London</span><span class="related-name english">English Pear &amp; Freesia</span></a></div><a class="related-back kor" href="spring.html">봄 컬렉션으로 돌아가기 ↗</a></aside>
- <div id="all"><div class="set"><div id="pic"><img src="img/sp_doson.jpg?v=20261103-composite" alt="Diptyque Do Son 향수"></div><div id="text"><h3 class="english">Do Son — Diptyque</h3><p class="kor">오렌지 꽃과 아이리스, 장미의 부드러운 꽃 향으로 시작해 튜베로즈의 풍성한 향과 핑크 페퍼의 은은한 스파이시함이 어우러집니다. 시간이 지나면서 머스크와 벤조인이 더해져 꽃 향을 부드럽게 감싸는 따뜻한 잔향으로 이어집니다.<br><br>흰 꽃의 화사함과 부드러운 여운을 함께 담아 차분하면서도 생기 있는 분위기를 전하는 향수입니다. 튜베로즈 특유의 풍성한 꽃 향이 중심을 이루며, 꽃이 만개한 정원처럼 밝고 싱그러운 봄의 분위기와 잘 어울립니다.</p>
+ <aside class="related-scents" aria-labelledby="related-title"><p class="related-eyebrow english">EXPLORE MORE</p><h2 id="related-title" class="kor">같은 계절의 향도 만나보세요</h2><div class="related-list"><a class="related-perfume" href="sp_pear.html"><img src="img/sp_pear.jpg?v=20261103-refined" alt="English Pear &amp; Freesia" loading="lazy"><span class="related-brand english">Jo Malone London</span><span class="related-name english">English Pear &amp; Freesia</span></a></div><a class="related-back kor" href="spring.html">봄 컬렉션으로 돌아가기 ↗</a></aside>
+ <div id="all"><div class="set"><div id="pic"><img src="img/sp_doson.jpg?v=20261103-refined" alt="Diptyque Do Son 향수"></div><div id="text"><h3 class="english">Do Son — Diptyque</h3><p class="kor">오렌지 꽃과 아이리스, 장미의 부드러운 꽃 향으로 시작해 튜베로즈의 풍성한 향과 핑크 페퍼의 은은한 스파이시함이 어우러집니다. 시간이 지나면서 머스크와 벤조인이 더해져 꽃 향을 부드럽게 감싸는 따뜻한 잔향으로 이어집니다.<br><br>흰 꽃의 화사함과 부드러운 여운을 함께 담아 차분하면서도 생기 있는 분위기를 전하는 향수입니다. 튜베로즈 특유의 풍성한 꽃 향이 중심을 이루며, 꽃이 만개한 정원처럼 밝고 싱그러운 봄의 분위기와 잘 어울립니다.</p>
  <div class="lion"><div class="dear"><p class="hand kor">출시년도</p><p class="foot english">2005</p></div><div class="dear"><p class="hand kor">농도</p><p class="foot english">Eau de Toilette</p></div><div class="dear"><p class="hand kor">지속시간</p><p class="foot kor">약 4~6시간</p></div></div>
  <div class="bignote"><h3 class="english">SCENT NOTES</h3><div class="note-columns"><details class="note-group"><summary class="tag english">TOP</summary><div class="note-panel"><p class="eng english">African Orange Flower</p><p class="ko kor">아프리칸 오렌지 꽃</p><p class="eng english">Iris</p><p class="ko kor">아이리스</p><p class="eng english">Rose</p><p class="ko kor">장미</p></div></details><details class="note-group"><summary class="tag english">HEART</summary><div class="note-panel"><p class="eng english">Tuberose</p><p class="ko kor">튜베로즈</p><p class="eng english">Pink Pepper</p><p class="ko kor">핑크 페퍼</p></div></details><details class="note-group"><summary class="tag english">BASE</summary><div class="note-panel"><p class="eng english">Musk</p><p class="ko kor">머스크</p><p class="eng english">Benzoin</p><p class="ko kor">벤조인</p></div></details></div></div>
  </div></div></div></main>    <footer>

diff --git a/au_santal.html b/au_santal.html
@@ -32,8 +32,8 @@
       </nav>
     </header>
     <main class="perfume-layout new-perfume">
- <aside class="related-scents" aria-labelledby="related-title"><p class="related-eyebrow english">EXPLORE MORE</p><h2 id="related-title" class="kor">같은 계절의 향도 만나보세요</h2><div class="related-list"><a class="related-perfume" href="au_tamdao.html"><img src="img/au_tamdao.jpg?v=20261103-composite" alt="Tam Dao" loading="lazy"><span class="related-brand english">Diptyque</span><span class="related-name english">Tam Dao</span></a></div><a class="related-back kor" href="autumn.html">가을 컬렉션으로 돌아가기 ↗</a></aside>
- <div id="all"><div class="set"><div id="pic"><img src="img/au_santal.jpg?v=20261103-composite" alt="Le Labo Santal 33 향수"></div><div id="text"><h3 class="english">Santal 33 — Le Labo</h3><p class="kor">샌달우드와 버지니아 시더의 차분한 나무 향에 카다멈의 은은한 스파이시함과 가죽의 깊은 느낌이 어우러집니다. 파피루스의 건조한 질감과 바이올렛, 아이리스의 부드러운 파우더리함이 나무 향을 감싸고, 앰버의 따뜻함이 함께 남습니다.<br><br>부드러운 꽃 향과 건조한 우디 향, 가죽의 묵직한 느낌이 겹쳐져 차분하면서도 개성 있는 분위기를 전하는 향수입니다. 달콤하고 화려한 인상보다는 나무와 가죽의 질감이 중심을 이루며, 공기가 서늘해지는 가을의 담백하고 깊이 있는 분위기와 잘 어울립니다.</p>
+ <aside class="related-scents" aria-labelledby="related-title"><p class="related-eyebrow english">EXPLORE MORE</p><h2 id="related-title" class="kor">같은 계절의 향도 만나보세요</h2><div class="related-list"><a class="related-perfume" href="au_tamdao.html"><img src="img/au_tamdao.jpg?v=20261103-refined" alt="Tam Dao" loading="lazy"><span class="related-brand english">Diptyque</span><span class="related-name english">Tam Dao</span></a></div><a class="related-back kor" href="autumn.html">가을 컬렉션으로 돌아가기 ↗</a></aside>
+ <div id="all"><div class="set"><div id="pic"><img src="img/au_santal.jpg?v=20261103-refined" alt="Le Labo Santal 33 향수"></div><div id="text"><h3 class="english">Santal 33 — Le Labo</h3><p class="kor">샌달우드와 버지니아 시더의 차분한 나무 향에 카다멈의 은은한 스파이시함과 가죽의 깊은 느낌이 어우러집니다. 파피루스의 건조한 질감과 바이올렛, 아이리스의 부드러운 파우더리함이 나무 향을 감싸고, 앰버의 따뜻함이 함께 남습니다.<br><br>부드러운 꽃 향과 건조한 우디 향, 가죽의 묵직한 느낌이 겹쳐져 차분하면서도 개성 있는 분위기를 전하는 향수입니다. 달콤하고 화려한 인상보다는 나무와 가죽의 질감이 중심을 이루며, 공기가 서늘해지는 가을의 담백하고 깊이 있는 분위기와 잘 어울립니다.</p>
  <div class="lion"><div class="dear"><p class="hand kor">출시년도</p><p class="foot english">2011</p></div><div class="dear"><p class="hand kor">농도</p><p class="foot english">Eau de Parfum</p></div><div class="dear"><p class="hand kor">지속시간</p><p class="foot kor">약 8~10시간</p></div></div>
  <div class="bignote"><h3 class="english">SCENT NOTES</h3><div class="note-columns single"><details class="note-group"><summary class="tag english">FRAGRANCE NOTES</summary><div class="note-panel"><p class="eng english">Sandalwood</p><p class="ko kor">샌달우드</p><p class="eng english">Leather</p><p class="ko kor">레더</p><p class="eng english">Papyrus</p><p class="ko kor">파피루스</p><p class="eng english">Virginia Cedar</p><p class="ko kor">버지니아 시더</p><p class="eng english">Cardamom</p><p class="ko kor">카다멈</p><p class="eng english">Violet</p><p class="ko kor">바이올렛</p><p class="eng english">Iris</p><p class="ko kor">아이리스</p><p class="eng english">Amber</p><p class="ko kor">앰버</p></div></details></div></div>
  </div></div></div></main>    <footer>

diff --git a/winter.html b/winter.html
@@ -13,7 +13,7 @@
     <link rel="stylesheet" href="css/right.css">
     <link rel="stylesheet" href="css/footer.css">
     <script src="js/menu.js"></script>
-  <link rel="stylesheet" href="css/new-perfumes.css?v=20261103-composite">
+  <link rel="stylesheet" href="css/new-perfumes.css?v=20261103-refined">
 </head>
   <body>
     <header>
@@ -63,7 +63,7 @@
           <h3>Baccarat Rouge 540</h3>
           <h5>Maison Francis Kurkdjian</h5>
       </a>
-    <a href="wi_angels.html"><div class="box new-product"><img src="img/wi_angels.jpg?v=20261103-composite" alt="Kilian Paris Angels’ Share" loading="lazy"></div><h3>Angels’ Share</h3><h5>Kilian Paris</h5></a><a href="wi_tobacco.html"><div class="box new-product"><img src="img/wi_tobacco.jpg?v=20261103-composite" alt="Tom Ford Tobacco Vanille" loading="lazy"></div><h3>Tobacco Vanille</h3><h5>Tom Ford</h5></a><a href="wi_grandsoir.html"><div class="box new-product"><img src="img/wi_grandsoir.jpg?v=20261103-composite" alt="Maison Francis Kurkdjian Grand Soir" loading="lazy"></div><h3>Grand Soir</h3><h5>Maison Francis Kurkdjian</h5></a>
+    <a href="wi_angels.html"><div class="box new-product"><img src="img/wi_angels.jpg?v=20261103-refined" alt="Kilian Paris Angels’ Share" loading="lazy"></div><h3>Angels’ Share</h3><h5>Kilian Paris</h5></a><a href="wi_tobacco.html"><div class="box new-product"><img src="img/wi_tobacco.jpg?v=20261103-refined" alt="Tom Ford Tobacco Vanille" loading="lazy"></div><h3>Tobacco Vanille</h3><h5>Tom Ford</h5></a><a href="wi_grandsoir.html"><div class="box new-product"><img src="img/wi_grandsoir.jpg?v=20261103-refined" alt="Maison Francis Kurkdjian Grand Soir" loading="lazy"></div><h3>Grand Soir</h3><h5>Maison Francis Kurkdjian</h5></a>
 </main>
     <section>
       <hr>

diff --git a/spring.html b/spring.html
@@ -13,7 +13,7 @@
     <link rel="stylesheet" href="css/left.css">
     <link rel="stylesheet" href="css/footer.css">
     <script src="js/menu.js"></script>
-  <link rel="stylesheet" href="css/new-perfumes.css?v=20261103-composite">
+  <link rel="stylesheet" href="css/new-perfumes.css?v=20261103-refined">
 </head>
   <body>
     <header>
@@ -64,7 +64,7 @@
           <h3>Y Eau de Parfum</h3>
           <h5>Yves Saint Laurent</h5>
       </a>
-    <a href="sp_pear.html"><div class="box new-product"><img src="img/sp_pear.jpg?v=20261103-composite" alt="Jo Malone London English Pear &amp; Freesia" loading="lazy"></div><h3>English Pear &amp; Freesia</h3><h5>Jo Malone London</h5></a><a href="sp_doson.html"><div class="box new-product"><img src="img/sp_doson.jpg?v=20261103-composite" alt="Diptyque Do Son" loading="lazy"></div><h3>Do Son</h3><h5>Diptyque</h5></a>
+    <a href="sp_pear.html"><div class="box new-product"><img src="img/sp_pear.jpg?v=20261103-refined" alt="Jo Malone London English Pear &amp; Freesia" loading="lazy"></div><h3>English Pear &amp; Freesia</h3><h5>Jo Malone London</h5></a><a href="sp_doson.html"><div class="box new-product"><img src="img/sp_doson.jpg?v=20261103-refined" alt="Diptyque Do Son" loading="lazy"></div><h3>Do Son</h3><h5>Diptyque</h5></a>
 </main>
     <section>
       <hr>
